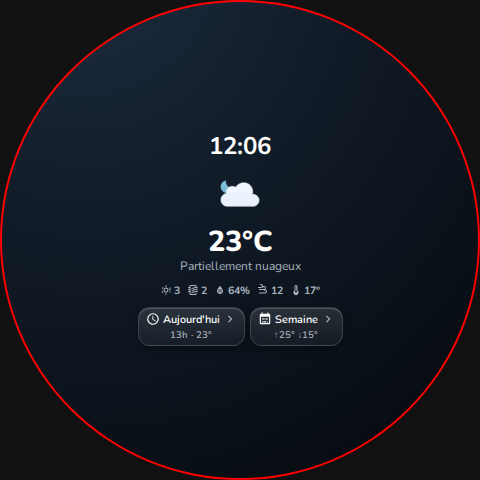
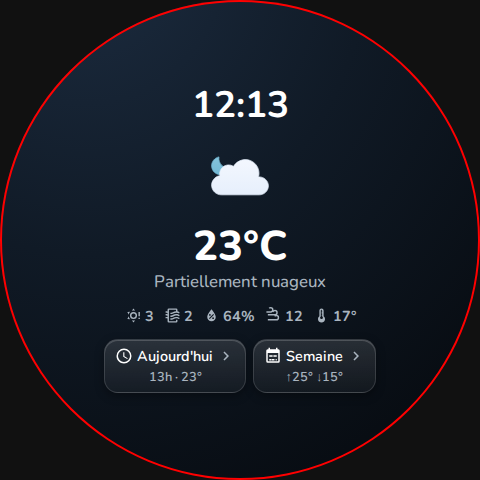
style: grow round-mode content, trim over-cautious padding
Le padding de .card.round (15% uniforme) supposait un carré de contenu
plein cadre, mais le contenu réel est un empilement vertical centré,
plus étroit que ça — il n'a pas besoin d'autant de marge pour que ses
'coins' restent dans le cercle (il n'a pas de coins à cet endroit).
Padding réduit à 9% haut/bas, 7% gauche/droite (asymétrique : les
lignes les plus larges — tuiles Aujourd'hui/Semaine — sont proches du
centre vertical, là où le cercle est le plus large).

Toutes les tailles (horloge, icône, température, condition,
indicateurs, tuiles) augmentées nettement pour profiter de l'espace
regagné. Vérifié en clair et sombre avec overlay circulaire : toujours
bien dans le cercle avec marge confortable, dialogues de détail non
affectés (styles indépendants).

Changed region(s): [[0.2188, 0.4688, 0.7812, 0.8125], [0.4375, 0.2812, 0.5625, 0.4375], [0.4062, 0.1875, 0.5938, 0.25]]

diff --git a/dist/echo-weather-card.js b/dist/echo-weather-card.js
@@ -1,6 +1,6 @@
-var He = Object.defineProperty;
-var Le = (r, e, t) => e in r ? He(r, e, { enumerable: !0, configurable: !0, writable: !0, value: t }) : r[e] = t;
-var Y = (r, e, t) => Le(r, typeof e != "symbol" ? e + "" : e, t);
+var Le = Object.defineProperty;
+var He = (r, e, t) => e in r ? Le(r, e, { enumerable: !0, configurable: !0, writable: !0, value: t }) : r[e] = t;
+var Y = (r, e, t) => He(r, typeof e != "symbol" ? e + "" : e, t);
 /**
  * @license
  * Copyright 2019 Google LLC
@@ -294,7 +294,7 @@ D.elementStyles = [], D.shadowRootOptions = { mode: "open" }, D[R("elementProper
  * Copyright 2017 Google LLC
  * SPDX-License-Identifier: BSD-3-Clause
  */
-const T = globalThis, he = (r) => r, V = T.trustedTypes, pe = V ? V.createPolicy("lit-html", { createHTML: (r) => r }) : void 0, ze = "$lit$", b = `lit$${Math.random().toFixed(9).slice(2)}$`, Pe = "?" + b, Ye = `<${Pe}>`, q = document, H = () => q.createComment(""), L = (r) => r === null || typeof r != "object" && typeof r != "function", oe = Array.isArray, Ze = (r) => oe(r) || typeof (r == null ? void 0 : r[Symbol.iterator]) == "function", K = `[ 	
+const T = globalThis, he = (r) => r, V = T.trustedTypes, pe = V ? V.createPolicy("lit-html", { createHTML: (r) => r }) : void 0, ze = "$lit$", b = `lit$${Math.random().toFixed(9).slice(2)}$`, Pe = "?" + b, Ye = `<${Pe}>`, q = document, L = () => q.createComment(""), H = (r) => r === null || typeof r != "object" && typeof r != "function", oe = Array.isArray, Ze = (r) => oe(r) || typeof (r == null ? void 0 : r[Symbol.iterator]) == "function", K = `[ 	
 \f\r]`, U = /<(?:(!--|\/[^a-zA-Z])|(\/?[a-zA-Z][^>\s]*)|(\/?$))/g, me = /-->/g, _e = />/g, A = RegExp(`>|${K}(?:([^\\s"'>=/]+)(${K}*=${K}*(?:[^ 	
 \f\r"'\`<>=]|("|')|))|$)`, "g"), ge = /'/g, fe = /"/g, Ue = /^(?:script|style|textarea|title)$/i, Ke = (r) => (e, ...t) => ({ _$litType$: r, strings: e, values: t }), u = Ke(1), z = Symbol.for("lit-noChange"), h = Symbol.for("lit-nothing"), ve = /* @__PURE__ */ new WeakMap(), C = q.createTreeWalker(q, 129);
 function Re(r, e) {
@@ -333,8 +333,8 @@ class I {
           const p = n.textContent.split(b), m = p.length - 1;
           if (m > 0) {
             n.textContent = V ? V.emptyScript : "";
-            for (let _ = 0; _ < m; _++) n.append(p[_], H()), C.nextNode(), a.push({ type: 2, index: ++s });
-            n.append(p[m], H());
+            for (let _ = 0; _ < m; _++) n.append(p[_], L()), C.nextNode(), a.push({ type: 2, index: ++s });
+            n.append(p[m], L());
           }
         }
       } else if (n.nodeType === 8) if (n.data === Pe) a.push({ type: 2, index: s });
@@ -354,7 +354,7 @@ function P(r, e, t = r, i) {
   var o, l, a;
   if (e === z) return e;
   let n = i !== void 0 ? (o = t._$Co) == null ? void 0 : o[i] : t._$Cl;
-  const s = L(e) ? void 0 : e._$litDirective$;
+  const s = H(e) ? void 0 : e._$litDirective$;
   return (n == null ? void 0 : n.constructor) !== s && ((l = n == null ? void 0 : n._$AO) == null || l.call(n, !1), s === void 0 ? n = void 0 : (n = new s(r), n._$AT(r, t, i)), i !== void 0 ? ((a = t._$Co) != null ? a : t._$Co = [])[i] = n : t._$Cl = n), n !== void 0 && (e = P(r, n._$AS(r, e.values), n, i)), e;
 }
 class et {
@@ -407,7 +407,7 @@ class B {
     return this._$AB;
   }
   _$AI(e, t = this) {
-    e = P(this, e, t), L(e) ? e === h || e == null || e === "" ? (this._$AH !== h && this._$AR(), this._$AH = h) : e !== this._$AH && e !== z && this._(e) : e._$litType$ !== void 0 ? this.$(e) : e.nodeType !== void 0 ? this.T(e) : Ze(e) ? this.k(e) : this._(e);
+    e = P(this, e, t), H(e) ? e === h || e == null || e === "" ? (this._$AH !== h && this._$AR(), this._$AH = h) : e !== this._$AH && e !== z && this._(e) : e._$litType$ !== void 0 ? this.$(e) : e.nodeType !== void 0 ? this.T(e) : Ze(e) ? this.k(e) : this._(e);
   }
   O(e) {
     return this._$AA.parentNode.insertBefore(e, this._$AB);
@@ -416,7 +416,7 @@ class B {
     this._$AH !== e && (this._$AR(), this._$AH = this.O(e));
   }
   _(e) {
-    this._$AH !== h && L(this._$AH) ? this._$AA.nextSibling.data = e : this.T(q.createTextNode(e)), this._$AH = e;
+    this._$AH !== h && H(this._$AH) ? this._$AA.nextSibling.data = e : this.T(q.createTextNode(e)), this._$AH = e;
   }
   $(e) {
     var s;
@@ -435,7 +435,7 @@ class B {
     oe(this._$AH) || (this._$AH = [], this._$AR());
     const t = this._$AH;
     let i, n = 0;
-    for (const s of e) n === t.length ? t.push(i = new B(this.O(H()), this.O(H()), this, this.options)) : i = t[n], i._$AI(s), n++;
+    for (const s of e) n === t.length ? t.push(i = new B(this.O(L()), this.O(L()), this, this.options)) : i = t[n], i._$AI(s), n++;
     n < t.length && (this._$AR(i && i._$AB.nextSibling, n), t.length = n);
   }
   _$AR(e = this._$AA.nextSibling, t) {
@@ -463,11 +463,11 @@ class G {
   _$AI(e, t = this, i, n) {
     const s = this.strings;
     let o = !1;
-    if (s === void 0) e = P(this, e, t, 0), o = !L(e) || e !== this._$AH && e !== z, o && (this._$AH = e);
+    if (s === void 0) e = P(this, e, t, 0), o = !H(e) || e !== this._$AH && e !== z, o && (this._$AH = e);
     else {
       const l = e;
       let a, c;
-      for (e = s[0], a = 0; a < s.length - 1; a++) c = P(this, l[i + a], t, a), c === z && (c = this._$AH[a]), o || (o = !L(c) || c !== this._$AH[a]), c === h ? e = h : e !== h && (e += (c != null ? c : "") + s[a + 1]), this._$AH[a] = c;
+      for (e = s[0], a = 0; a < s.length - 1; a++) c = P(this, l[i + a], t, a), c === z && (c = this._$AH[a]), o || (o = !H(c) || c !== this._$AH[a]), c === h ? e = h : e !== h && (e += (c != null ? c : "") + s[a + 1]), this._$AH[a] = c;
     }
     o && !n && this.j(e);
   }
@@ -526,7 +526,7 @@ const st = (r, e, t) => {
   let n = i._$litPart$;
   if (n === void 0) {
     const l = (o = t == null ? void 0 : t.renderBefore) != null ? o : null;
-    i._$litPart$ = n = new B(e.insertBefore(H(), l), l, void 0, t != null ? t : {});
+    i._$litPart$ = n = new B(e.insertBefore(L(), l), l, void 0, t != null ? t : {});
   }
   return n._$AI(r), n;
 };
@@ -2517,16 +2517,20 @@ Y(ne, "properties", {
       overflow: hidden;
       align-items: center;
       justify-content: center;
-      gap: 4px;
-      /* Padding généreux en % : à 15% par côté, le carré de contenu
-         restant (70% de large) touche presque exactement le cercle par
-         ses coins — marge de sécurité correcte sans calcul de corde par
-         ligne. */
-      padding: 15%;
+      gap: 5px;
+      /* Le contenu est un empilement vertical centré, pas un bloc plein
+         cadre : contrairement à un carré inscrit, il n'a pas besoin d'une
+         marge symétrique généreuse pour que ses "coins" restent dans le
+         cercle (il n'a pas de coins à cet endroit). Marge horizontale
+         réduite (les lignes les plus larges — tuiles Aujourd'hui/Semaine —
+         sont proches du centre vertical, là où la corde du cercle est la
+         plus large) ; un peu plus de marge en haut/bas où le cercle se
+         resserre. */
+      padding: 9% 7%;
       text-align: center;
     }
     .round-clock {
-      font-size: clamp(1.1rem, 10cqw, 1.5rem);
+      font-size: clamp(1.6rem, 15cqw, 2.3rem);
       font-weight: 700;
       font-variant-numeric: tabular-nums;
       line-height: 1;
@@ -2536,22 +2540,23 @@ Y(ne, "properties", {
       flex-direction: column;
       align-items: center;
       cursor: pointer;
-      margin: 2px 0;
+      margin: 3px 0;
     }
     .round-icon {
-      width: clamp(42px, 19cqw, 62px);
-      height: clamp(42px, 19cqw, 62px);
+      width: clamp(62px, 29cqw, 92px);
+      height: clamp(62px, 29cqw, 92px);
     }
     .round-temp {
-      font-size: clamp(1.25rem, 11.5cqw, 1.8rem);
+      font-size: clamp(1.8rem, 17cqw, 2.6rem);
       font-weight: 800;
       line-height: 1;
       margin-top: 2px;
     }
     .round-condition {
       color: var(--_secondary-color);
-      font-size: clamp(0.62rem, 5.2cqw, 0.75rem);
-      margin-top: 1px;
+      font-size: clamp(0.85rem, 7cqw, 1.05rem);
+      font-weight: 500;
+      margin-top: 2px;
       max-width: 100%;
       overflow: hidden;
       text-overflow: ellipsis;
@@ -2564,8 +2569,8 @@ Y(ne, "properties", {
       display: flex;
       flex-wrap: wrap;
       justify-content: center;
-      gap: 4px 7px;
-      margin-top: 3px;
+      gap: 5px 10px;
+      margin-top: 5px;
       cursor: pointer;
     }
     .round-indicators:focus-visible {
@@ -2575,27 +2580,27 @@ Y(ne, "properties", {
     .round-chip {
       display: inline-flex;
       align-items: center;
-      gap: 2px;
-      font-size: clamp(0.56rem, 4.6cqw, 0.66rem);
+      gap: 3px;
+      font-size: clamp(0.75rem, 6.2cqw, 0.9rem);
       font-weight: 700;
       color: var(--_secondary-color);
       white-space: nowrap;
     }
     .round-chip ha-icon {
-      --mdc-icon-size: clamp(10px, 4cqw, 12px);
+      --mdc-icon-size: clamp(14px, 5.5cqw, 17px);
       flex-shrink: 0;
     }
     .round-launchers {
       display: flex;
-      gap: 5px;
-      margin-top: 5px;
+      gap: 7px;
+      margin-top: 8px;
     }
     .round-launcher {
       display: flex;
       flex-direction: column;
-      gap: 1px;
-      padding: 4px 7px;
-      border-radius: 12px;
+      gap: 2px;
+      padding: 6px 10px;
+      border-radius: 14px;
       background: var(--_tile-background);
       border: 1px solid var(--_tile-border);
       box-shadow: var(--_tile-shadow);
@@ -2604,13 +2609,13 @@ Y(ne, "properties", {
     .round-launcher-top {
       display: flex;
       align-items: center;
-      gap: 3px;
-      font-size: clamp(0.58rem, 4.8cqw, 0.68rem);
+      gap: 4px;
+      font-size: clamp(0.75rem, 6.2cqw, 0.9rem);
       font-weight: 600;
       white-space: nowrap;
     }
     .round-launcher-preview {
-      font-size: clamp(0.52rem, 4.2cqw, 0.6rem);
+      font-size: clamp(0.68rem, 5.5cqw, 0.8rem);
       font-weight: 600;
       color: var(--_secondary-color);
       white-space: nowrap;
@@ -2621,11 +2626,11 @@ Y(ne, "properties", {
       outline-offset: 2px;
     }
     .round-launcher-top ha-icon {
-      --mdc-icon-size: clamp(12px, 4.5cqw, 14px);
+      --mdc-icon-size: clamp(15px, 5.8cqw, 18px);
       flex-shrink: 0;
     }
     .round-chevron {
-      --mdc-icon-size: clamp(11px, 4cqw, 13px);
+      --mdc-icon-size: clamp(14px, 5.2cqw, 17px);
       color: var(--_secondary-color);
       flex-shrink: 0;
     }

diff --git a/src/echo-weather-card.js b/src/echo-weather-card.js
@@ -1801,16 +1801,20 @@ class EchoWeatherCard extends LitElement {
       overflow: hidden;
       align-items: center;
       justify-content: center;
-      gap: 4px;
-      /* Padding généreux en % : à 15% par côté, le carré de contenu
-         restant (70% de large) touche presque exactement le cercle par
-         ses coins — marge de sécurité correcte sans calcul de corde par
-         ligne. */
-      padding: 15%;
+      gap: 5px;
+      /* Le contenu est un empilement vertical centré, pas un bloc plein
+         cadre : contrairement à un carré inscrit, il n'a pas besoin d'une
+         marge symétrique généreuse pour que ses "coins" restent dans le
+         cercle (il n'a pas de coins à cet endroit). Marge horizontale
+         réduite (les lignes les plus larges — tuiles Aujourd'hui/Semaine —
+         sont proches du centre vertical, là où la corde du cercle est la
+         plus large) ; un peu plus de marge en haut/bas où le cercle se
+         resserre. */
+      padding: 9% 7%;
       text-align: center;
     }
     .round-clock {
-      font-size: clamp(1.1rem, 10cqw, 1.5rem);
+      font-size: clamp(1.6rem, 15cqw, 2.3rem);
       font-weight: 700;
       font-variant-numeric: tabular-nums;
       line-height: 1;
@@ -1820,22 +1824,23 @@ class EchoWeatherCard extends LitElement {
       flex-direction: column;
       align-items: center;
       cursor: pointer;
-      margin: 2px 0;
+      margin: 3px 0;
     }
     .round-icon {
-      width: clamp(42px, 19cqw, 62px);
-      height: clamp(42px, 19cqw, 62px);
+      width: clamp(62px, 29cqw, 92px);
+      height: clamp(62px, 29cqw, 92px);
     }
     .round-temp {
-      font-size: clamp(1.25rem, 11.5cqw, 1.8rem);
+      font-size: clamp(1.8rem, 17cqw, 2.6rem);
       font-weight: 800;
       line-height: 1;
       margin-top: 2px;
     }
     .round-condition {
       color: var(--_secondary-color);
-      font-size: clamp(0.62rem, 5.2cqw, 0.75rem);
-      margin-top: 1px;
+      font-size: clamp(0.85rem, 7cqw, 1.05rem);
+      font-weight: 500;
+      margin-top: 2px;
       max-width: 100%;
       overflow: hidden;
       text-overflow: ellipsis;
@@ -1848,8 +1853,8 @@ class EchoWeatherCard extends LitElement {
       display: flex;
       flex-wrap: wrap;
       justify-content: center;
-      gap: 4px 7px;
-      margin-top: 3px;
+      gap: 5px 10px;
+      margin-top: 5px;
       cursor: pointer;
     }
     .round-indicators:focus-visible {
@@ -1859,27 +1864,27 @@ class EchoWeatherCard extends LitElement {
     .round-chip {
       display: inline-flex;
       align-items: center;
-      gap: 2px;
-      font-size: clamp(0.56rem, 4.6cqw, 0.66rem);
+      gap: 3px;
+      font-size: clamp(0.75rem, 6.2cqw, 0.9rem);
       font-weight: 700;
       color: var(--_secondary-color);
       white-space: nowrap;
     }
     .round-chip ha-icon {
-      --mdc-icon-size: clamp(10px, 4cqw, 12px);
+      --mdc-icon-size: clamp(14px, 5.5cqw, 17px);
       flex-shrink: 0;
     }
     .round-launchers {
       display: flex;
-      gap: 5px;
-      margin-top: 5px;
+      gap: 7px;
+      margin-top: 8px;
     }
     .round-launcher {
       display: flex;
       flex-direction: column;
-      gap: 1px;
-      padding: 4px 7px;
-      border-radius: 12px;
+      gap: 2px;
+      padding: 6px 10px;
+      border-radius: 14px;
       background: var(--_tile-background);
       border: 1px solid var(--_tile-border);
       box-shadow: var(--_tile-shadow);
@@ -1888,13 +1893,13 @@ class EchoWeatherCard extends LitElement {
     .round-launcher-top {
       display: flex;
       align-items: center;
-      gap: 3px;
-      font-size: clamp(0.58rem, 4.8cqw, 0.68rem);
+      gap: 4px;
+      font-size: clamp(0.75rem, 6.2cqw, 0.9rem);
       font-weight: 600;
       white-space: nowrap;
     }
     .round-launcher-preview {
-      font-size: clamp(0.52rem, 4.2cqw, 0.6rem);
+      font-size: clamp(0.68rem, 5.5cqw, 0.8rem);
       font-weight: 600;
       color: var(--_secondary-color);
       white-space: nowrap;
@@ -1905,11 +1910,11 @@ class EchoWeatherCard extends LitElement {
       outline-offset: 2px;
     }
     .round-launcher-top ha-icon {
-      --mdc-icon-size: clamp(12px, 4.5cqw, 14px);
+      --mdc-icon-size: clamp(15px, 5.8cqw, 18px);
       flex-shrink: 0;
     }
     .round-chevron {
-      --mdc-icon-size: clamp(11px, 4cqw, 13px);
+      --mdc-icon-size: clamp(14px, 5.2cqw, 17px);
       color: var(--_secondary-color);
       flex-shrink: 0;
     }
